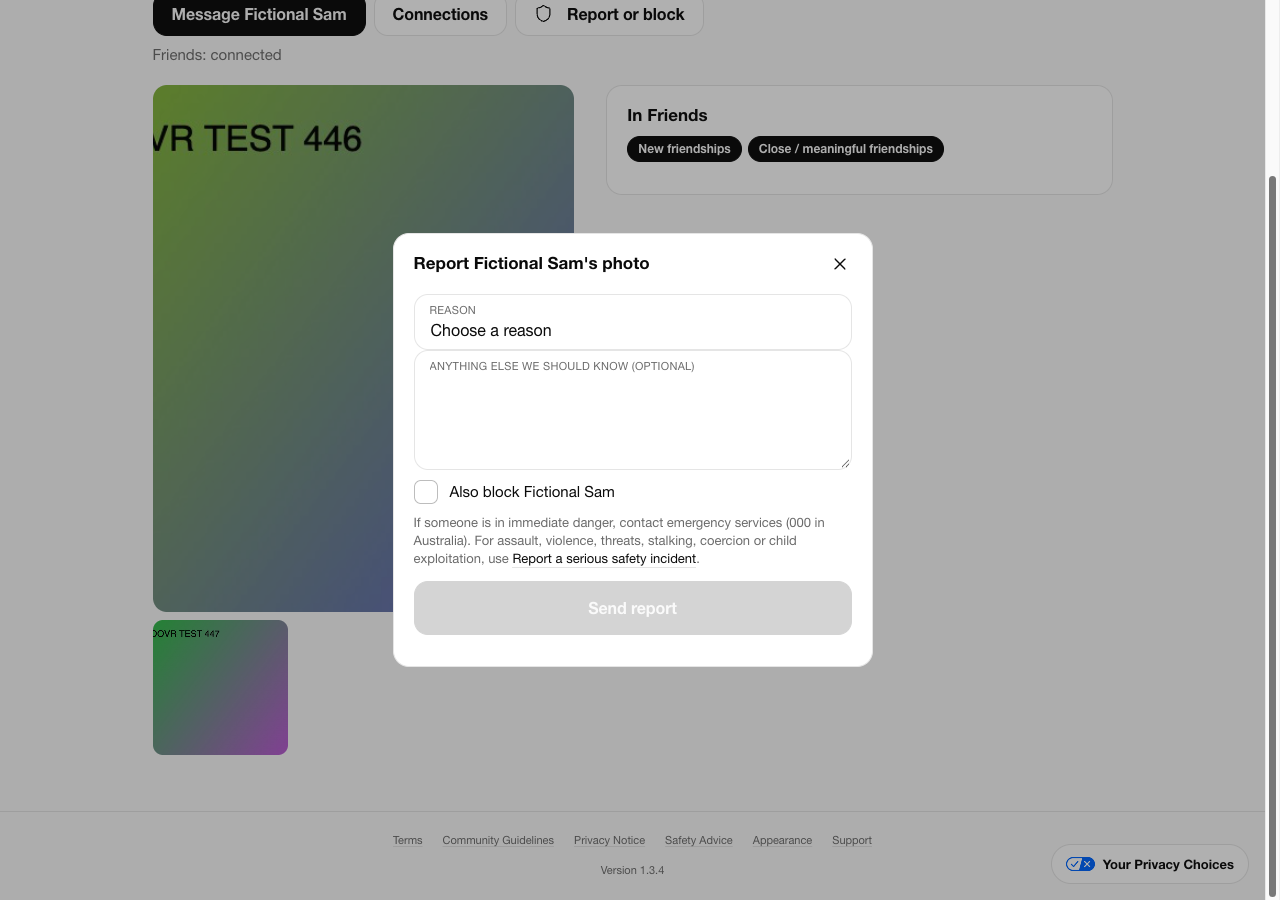
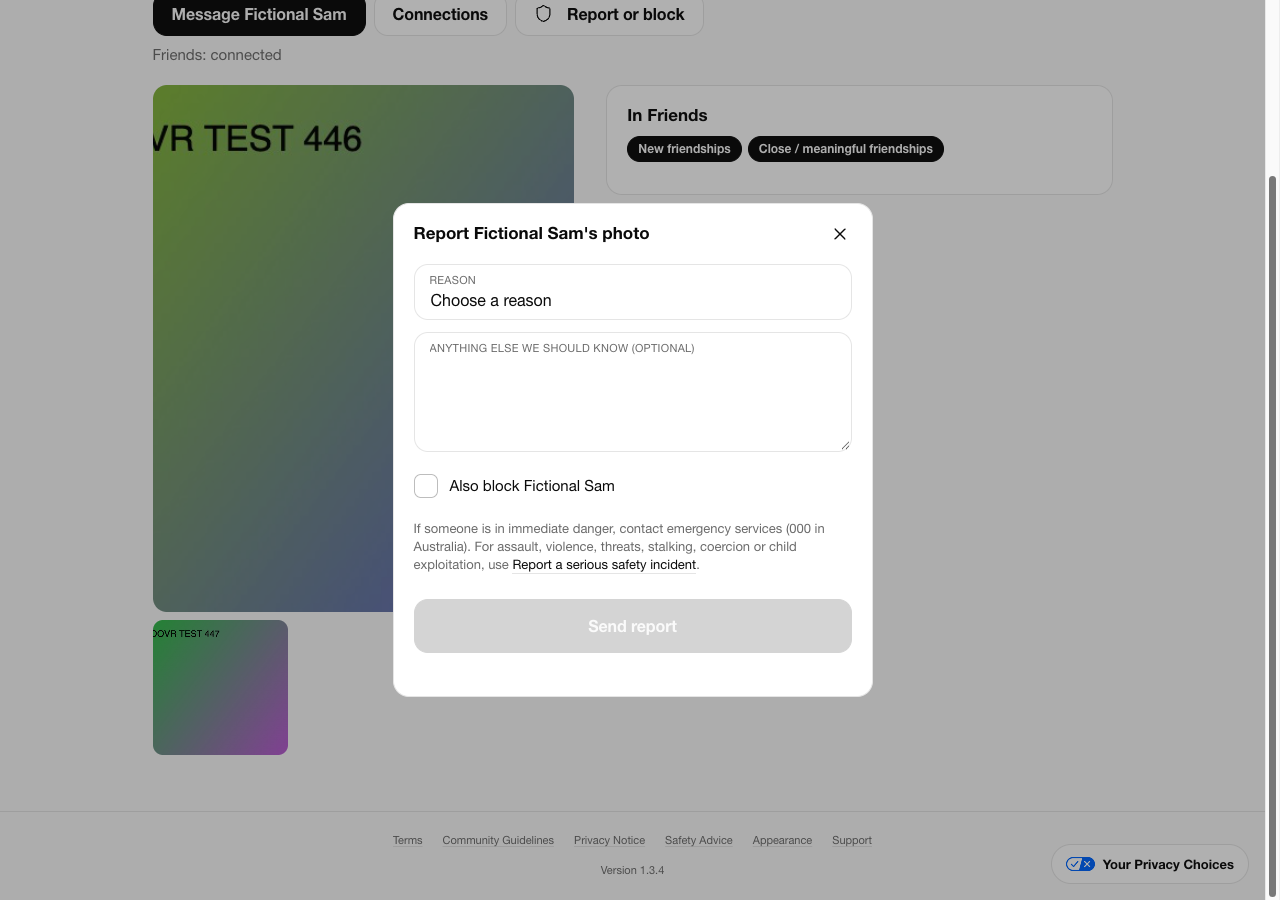
fix(moderation): admins can open a reported profile photo; space the report form in dialogs (PR 471 review)
- Codex: the case-view endpoint only accepted chat attachments, so the
  case page's "Open reported photo" returned 404 for a profile photo
  report. A profile photo (no purpose) is now eligible only when the case
  holds a photo report naming exactly that photo; evidence, screening,
  recorded purpose and conflict checks are unchanged.
- Review: the Reason select and the note touched in the report dialog
  (.stack was only a grid inside .account-section). The dialog form now
  spaces its fields (12px); this also fixes the profile Report dialog.
- person-profile suite: admin case-view of the reported photo (and 404
  for a photo the case doesn't name), the served case link, the recorded
  view, and the field spacing.

Changed region(s): [[0.2812, 0.5289, 0.6875, 0.7778], [0.2812, 0.2178, 0.6875, 0.4356]]

diff --git a/src/Swoovr.Web/wwwroot/app.css b/src/Swoovr.Web/wwwroot/app.css
@@ -807,6 +807,8 @@ body:has(.public-layout) { padding-bottom: 0; }
 .member-dialog-close:focus-visible { outline: 3px solid var(--text); outline-offset: -3px; }
 .member-dialog .request-list { margin-top: 12px; }
 .report-in-dialog { margin: 0; }
+/* PR 471 review: the report form in a dialog spaces its fields like the page form (they touched: .stack is only a grid in .account-section). */
+.report-in-dialog .stack { display: grid; gap: 12px; margin-top: 8px; }
 
 /* Issue 447: the member profile layout. One column on a phone; gallery beside the details from 760px. The lead photo
    spans the gallery and the rest sit three to a row, so nothing scrolls sideways. */

diff --git a/src/Swoovr.Api/Media/MediaEndpoints.cs b/src/Swoovr.Api/Media/MediaEndpoints.cs
@@ -203,7 +203,7 @@ public static class MediaEndpoints
             await db.SaveChangesAsync(cancellationToken);
             return Results.Ok(link);
         });
-        // #41: a reported chat photo, for an admin working the case: only a photo the case's evidence names, never a blocked
+        // #41: a reported chat photo (issue 467: or a reported profile photo), for an admin working the case: only a photo the case's evidence names, never a blocked
         // one, with a recorded purpose (media_review_views, the audit and the sensitive-access log), conflict rules applied.
         admin.MapPost("/{id:guid}/case-view", async (Guid id, MediaCaseViewRequest request, ClaimsPrincipal user, AccountResolver accounts, TimeProvider clock,
             CancellationToken cancellationToken) =>
@@ -215,7 +215,9 @@ public static class MediaEndpoints
                 return Problem(StatusCodes.Status400BadRequest, ProblemCodes.PurposeRequired, "Say which case and why you need to look at this photo.");
             await using var barrier = await Retention.PreservationLease.SharedAsync(db, cancellationToken);
             var named = (await db.CaseEvidence.Where(e => e.CaseId == caseId).Select(e => e.Snapshot).ToListAsync(cancellationToken)).Any(s => s.Contains(id.ToString()));
-            var item = named ? await db.MediaItems.SingleOrDefaultAsync(i => i.Id == id && i.Purpose == AttachmentPolicy.Purpose
+            // Issue 467 (Codex, PR 471): a profile photo (no purpose) only when this case holds a photo report naming exactly it.
+            var reportedProfilePhoto = named && await db.Reports.AnyAsync(r => r.CaseId == caseId && r.SubjectType == ReportSubject.Photo && r.SubjectRef == id.ToString(), cancellationToken);
+            var item = named ? await db.MediaItems.SingleOrDefaultAsync(i => i.Id == id && (i.Purpose == AttachmentPolicy.Purpose || reportedProfilePhoto && i.Purpose == null)
                 && i.ObjectKey != null, cancellationToken) : null;
             if (item is null || !MediaPolicy.CaseReviewable(item)) return Problem(StatusCodes.Status404NotFound, ProblemCodes.UnknownPhoto, "That photo isn't part of this case's evidence.");
             if (await StaffAccessEndpoints.ExcludedAsync(db, actor, await Retention.SafetyRetention.CaseAccountsAsync(db, caseId, cancellationToken), cancellationToken)) return StaffAccessEndpoints.Conflict();
